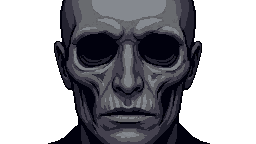
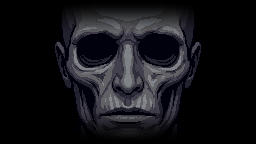
fix(ui): stop the death screen from showing its own edges
The jumpscare rect starts at 0.85 scale and tilts -9 degrees, so the
rotated quad left a wedge of screen uncovered for the first half of the
rush - the diamond outline players were seeing. All three sheets also
carried white pillarbox bars that got stretched across the screen edges.

Blacken the border-connected white and fade every frame's edges into
darkness, so the artwork dissolves instead of ending on a hard rotated
line, and keep the dim opaque black behind the face so nothing shows
through when the quad falls short. The 0.85 to 2.6 rush is untouched.

Bake the same treatment into build_scare_sheet.py; re-exported frames
would otherwise bring the white back.

Drop the swallow fade: the dim sits behind the face, so it was occluded
from the moment the face covered the screen and never rendered.

Hold the dim opaque on the "You are Dead" sheet too. At alpha 0.82 the
live player and the yokai frozen mid-lunge bled through, which read as
having survived.

diff --git a/Tools/build_scare_sheet.py b/Tools/build_scare_sheet.py
@@ -125,9 +125,53 @@ TextureImporter:
 """
 
 
+WHITE_THRESHOLD = 242
+VIGNETTE_INSET = 0.26
+
+
 def frame_ids(name):
     digest = hashlib.md5(name.encode()).hexdigest()
     return digest[:32], int(digest[:15], 16) % (2 ** 62)
+
+
+def smoothstep(t):
+    t = max(0.0, min(1.0, t))
+    return t * t * (3.0 - 2.0 * t)
+
+
+def blacken_border_white(frame):
+    width, height = frame.size
+    px = frame.load()
+    seen = [[False] * height for _ in range(width)]
+    stack = [(x, y) for x in range(width) for y in (0, height - 1)]
+    stack += [(x, y) for y in range(height) for x in (0, width - 1)]
+
+    while stack:
+        x, y = stack.pop()
+        if x < 0 or y < 0 or x >= width or y >= height or seen[x][y]:
+            continue
+        pixel = px[x, y]
+        if min(pixel[:3]) < WHITE_THRESHOLD:
+            continue
+        seen[x][y] = True
+        px[x, y] = (0, 0, 0, pixel[3])
+        stack += [(x + 1, y), (x - 1, y), (x, y + 1), (x, y - 1)]
+
+
+def fade_edges_to_black(frame):
+    width, height = frame.size
+    px = frame.load()
+
+    for y in range(height):
+        fy = smoothstep(min(y, height - 1 - y) / (height * VIGNETTE_INSET))
+        for x in range(width):
+            fx = smoothstep(min(x, width - 1 - x) / (width * VIGNETTE_INSET))
+            factor = fx * fy
+            if factor >= 1.0:
+                continue
+            pixel = px[x, y]
+            px[x, y] = (int(pixel[0] * factor), int(pixel[1] * factor),
+                        int(pixel[2] * factor), pixel[3])
 
 
 def natural(path):
@@ -147,6 +191,8 @@ def build(key, frame_paths, columns):
     sheet = Image.new("RGBA", (columns * width, rows * height), (0, 0, 0, 0))
 
     for i, frame in enumerate(frames):
+        blacken_border_white(frame)
+        fade_edges_to_black(frame)
         sheet.paste(frame, ((i % columns) * width, (i // columns) * height))
 
     png = os.path.join(OUT_DIR, f"{key}.png")

diff --git a/Assets/Scripts/UI/Popup/UI_GameOver.cs b/Assets/Scripts/UI/Popup/UI_GameOver.cs
@@ -14,7 +14,6 @@ public class UI_GameOver : UI_Popup
 	const float ScareFps = 24.0f;
 	const float RushStartScale = 0.85f;
 	const float RushEndScale = 2.6f;
-	const float SwallowFrom = 0.72f;
 
 	// 입이 화면 어디쯤 있는지. 확대는 이 점을 중심으로 일어난다.
 	const float MouthPivotY = 0.36f;
@@ -242,7 +241,7 @@ public class UI_GameOver : UI_Popup
 			yield break;
 		}
 
-		_dim.color = new Color(0, 0, 0, 0.0f);
+		_dim.color = Color.black;
 		_face.enabled = true;
 		_flash.color = new Color(0.55f, 0.02f, 0.02f, 0.5f);
 
@@ -287,10 +286,6 @@ public class UI_GameOver : UI_Popup
 			_flash.color = new Color(
 				0.55f, 0.02f, 0.02f, 0.5f * (1.0f - Ease.OutQuint(k)));
 
-			// 마지막 구간은 입 속이 화면을 삼킨다.
-			float swallow = Mathf.InverseLerp(SwallowFrom, 1.0f, k);
-			_dim.color = new Color(0, 0, 0, Ease.SmootherStep(swallow));
-
 			elapsed += Time.unscaledDeltaTime;
 			yield return null;
 		}
@@ -310,7 +305,7 @@ public class UI_GameOver : UI_Popup
 
 	IEnumerator RevealSheet()
 	{
-		_dim.color = new Color(0, 0, 0, 0.82f);
+		_dim.color = Color.black;
 		_sheet.interactable = true;
 		_sheet.blocksRaycasts = true;
 
